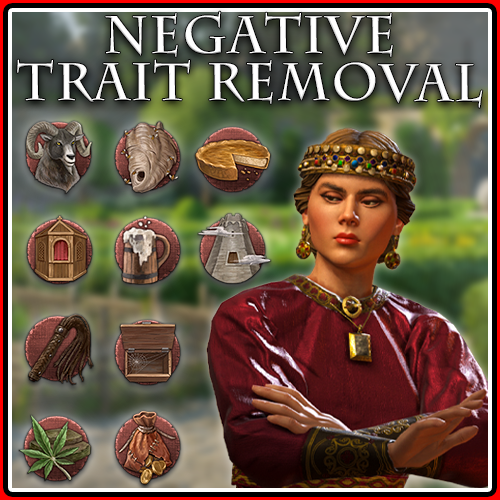
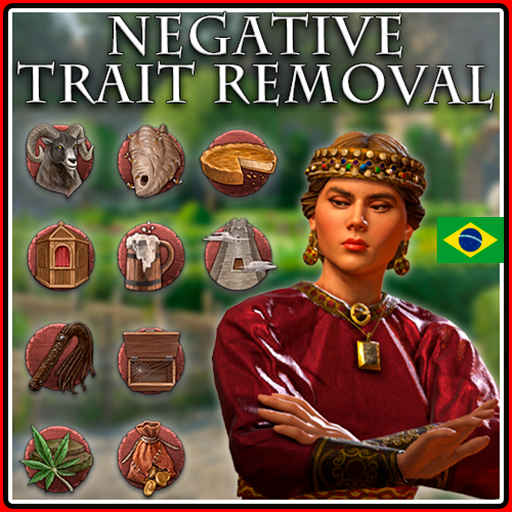
Thumb e Descrição

diff --git a/README.MD b/README.MD
@@ -1,0 +1,22 @@
+# About
+
+This is a PT-BR localization for the [Immersive Negative Trait Removal](https://steamcommunity.com/sharedfiles/filedetails/?id=3173823584) mod.
+
+# If you subscribe and approve, please like and favorite
+
+# Key Features
+
+- Localization for PT-BR.
+- See full features [here](https://steamcommunity.com/sharedfiles/filedetails/?id=3173823584).
+
+# Supported Languages
+
+- Portuguese (Brazil)
+
+# Check Out My Other Mods
+
+- [Ultimate Map Graphics](https://steamcommunity.com/sharedfiles/filedetails/?id=3293659496)
+- [Better Terrain Graphics](https://steamcommunity.com/sharedfiles/filedetails/?id=3305519391)
+- [Legacy of Knowledge](https://steamcommunity.com/sharedfiles/filedetails/?id=3300642878)
+- [Better Battle Window V2](https://steamcommunity.com/sharedfiles/filedetails/?id=3305890494)
+- [Movable Suggestions](https://steamcommunity.com/sharedfiles/filedetails/?id=3308667178)
